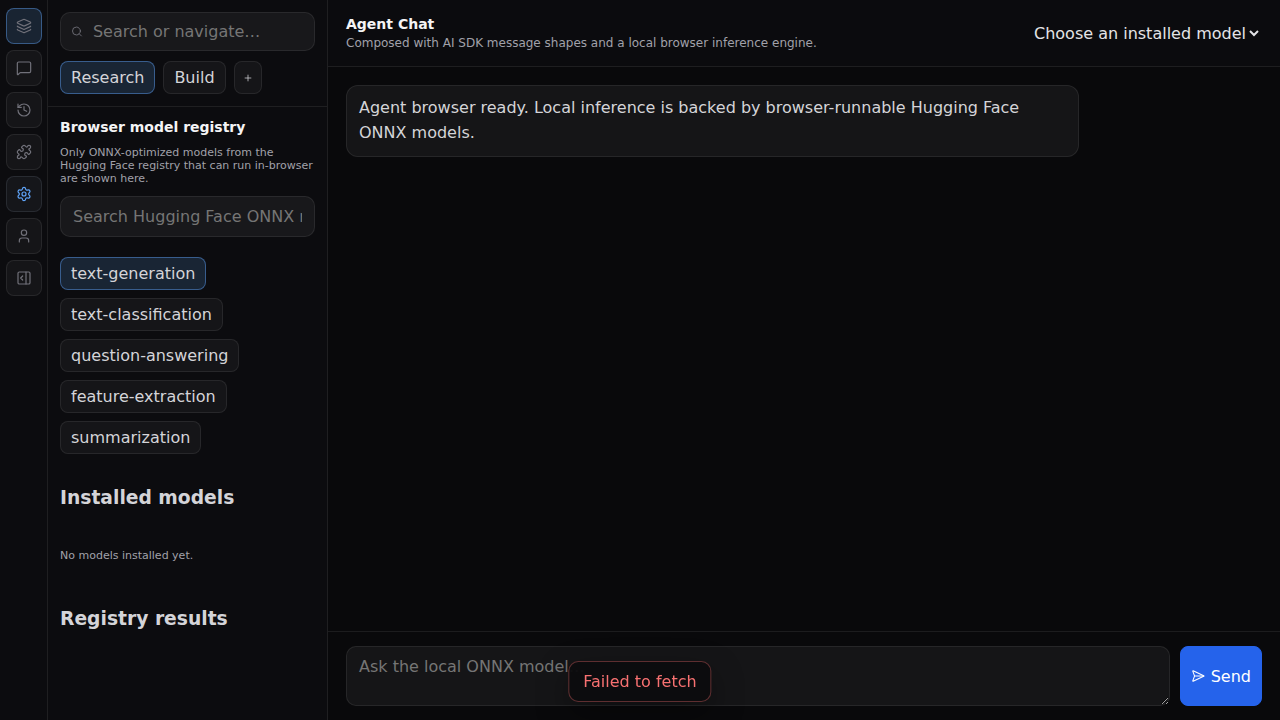
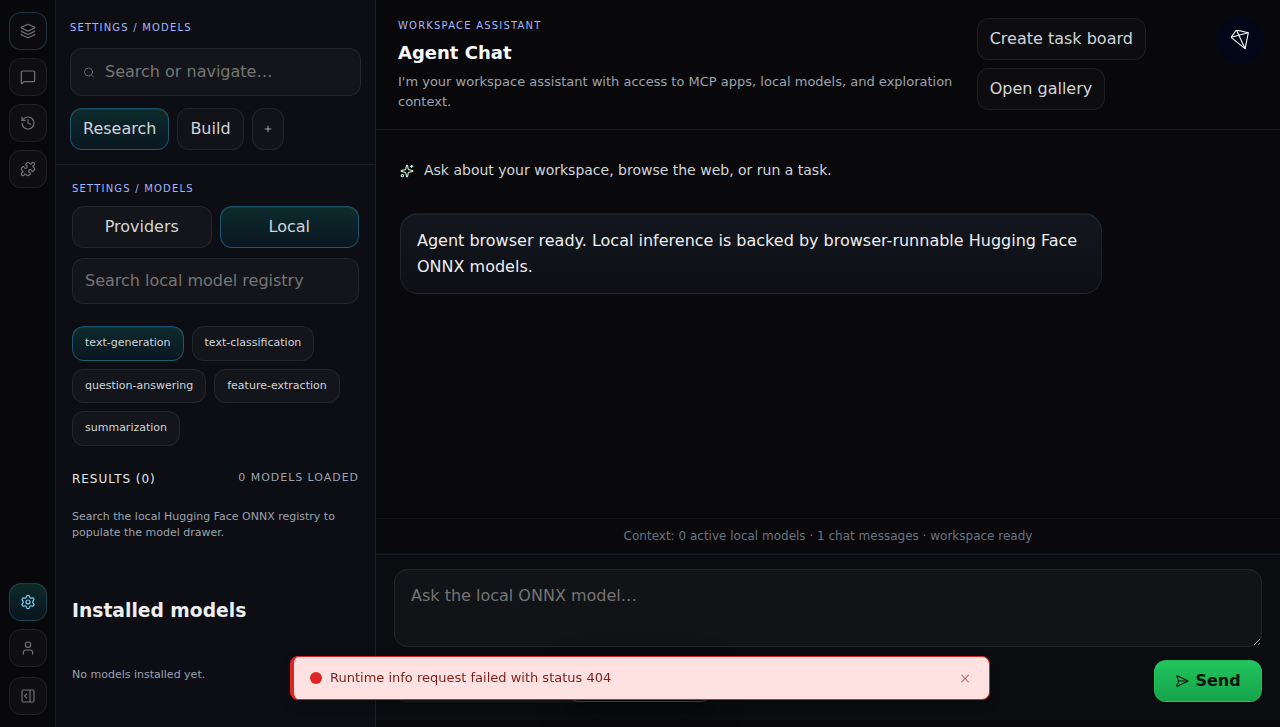
Refresh feature screenshots and docs for redesigned UI
Agent-Logs-Url: https://github.com/Tyler-R-Kendrick/agent_harness/sessions/56ac2ff3-33bf-4020-b2d9-625ca35c6cb8

diff --git a/agent-browser/tests/app.spec.ts b/agent-browser/tests/app.spec.ts
@@ -9,13 +9,20 @@ test('captures the main workspace screen', async ({ page }) => {
 test('captures the settings screen', async ({ page }) => {
   await page.goto('/');
   await page.getByLabel('Settings').click();
-  await expect(page.getByText('Browser model registry')).toBeVisible();
+  await expect(page.getByLabel('Hugging Face search')).toBeVisible();
   await page.screenshot({ path: 'docs/screenshots/settings-screen.png', fullPage: true });
 });
 
 test('captures the extensions screen', async ({ page }) => {
   await page.goto('/');
   await page.getByLabel('Extensions').click();
-  await expect(page.getByText('Extensions')).toBeVisible();
+  await expect(page.getByText('Workspace tools')).toBeVisible();
   await page.screenshot({ path: 'docs/screenshots/extensions-screen.png', fullPage: true });
+});
+
+test('captures the history screen', async ({ page }) => {
+  await page.goto('/');
+  await page.getByLabel('History').click();
+  await expect(page.getByText('Recent sessions')).toBeVisible();
+  await page.screenshot({ path: 'docs/screenshots/history-screen.png', fullPage: true });
 });

diff --git a/agent-browser/docs/features.md b/agent-browser/docs/features.md
@@ -3,7 +3,7 @@
 These screenshots are generated by the Playwright feature tests in `tests/app.spec.ts`.
 Run `npx playwright test` from the `agent-browser/` directory to refresh them.
 
-## Workspace shell
+## Exploration + chat shell
 
 Playwright test: `captures the main workspace screen`
 
@@ -12,8 +12,9 @@ Playwright test: `captures the main workspace screen`
 How to interact:
 - Use the omnibar to search or navigate.
 - Switch workspaces with the pills under the omnibar.
-- Browse tabs and folders from the workspace tree.
-- Use the activity bar to switch between major panels.
+- Browse tabs and folders from the exploration tree.
+- Use the activity bar to switch between exploration, chat, history, extensions, and settings.
+- Send a prompt from the themed composer at the bottom using the model pill and green send button.
 
 ## Settings / model registry
 
@@ -22,10 +23,10 @@ Playwright test: `captures the settings screen`
 ![Settings screen screenshot](./screenshots/settings-screen.png)
 
 How to interact:
-- Open **Settings** from the activity bar.
-- Search the Hugging Face registry for browser-runnable ONNX models.
-- Filter registry results by supported local task.
-- Install a model for local browser inference.
+- Open **Settings** from the bottom of the activity bar.
+- Use the Local tab styling to browse browser-runnable ONNX models.
+- Search the registry and narrow results by supported local task chips.
+- Use the Load button on a result card to install a model for local inference.
 
 ## Extensions panel
 
@@ -35,5 +36,16 @@ Playwright test: `captures the extensions screen`
 
 How to interact:
 - Open **Extensions** from the activity bar.
-- Review installed extension cards.
+- Review extension cards styled as marketplace entries.
 - Toggle extension enablement using the switch on each card.
+
+## History panel
+
+Playwright test: `captures the history screen`
+
+![History screen screenshot](./screenshots/history-screen.png)
+
+How to interact:
+- Open **History** from the activity bar.
+- Review recent sessions as stacked timeline cards.
+- Scan event counts, summaries, and session details before resuming work.
